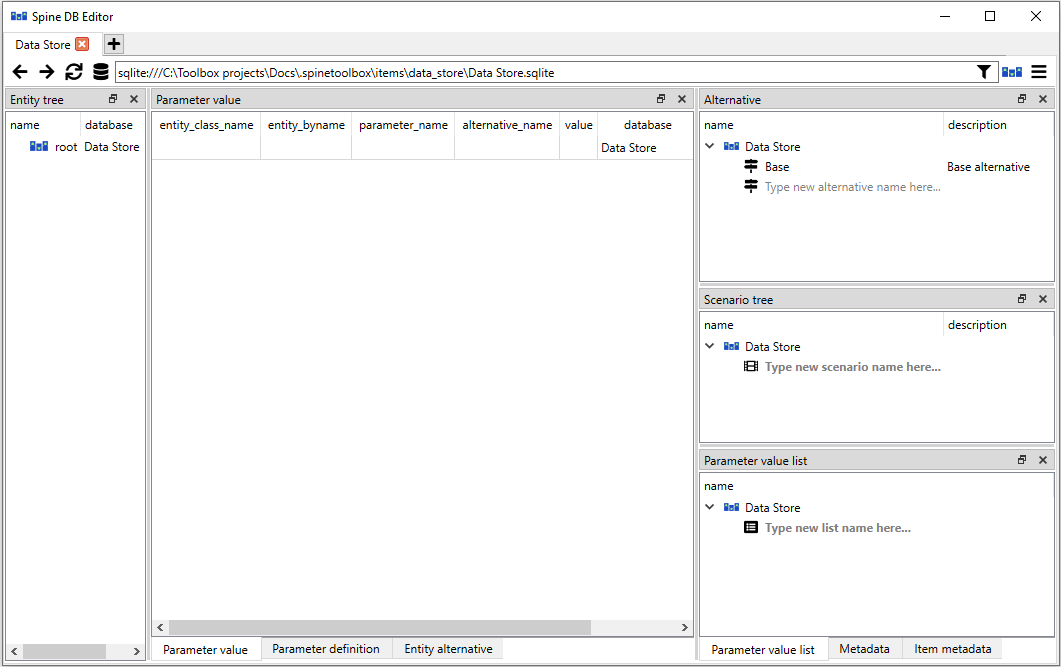
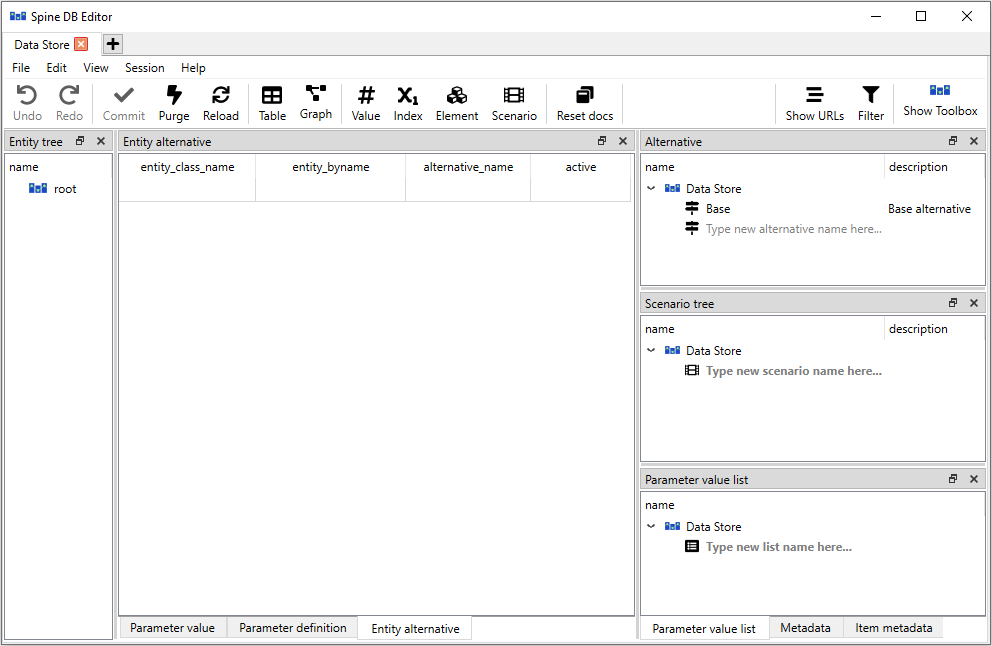
Update docs and changelog
Re #2774

Changed region(s): [[0.0, 0.0, 1.0, 1.0], [0.875, 0.3096, 1.0, 0.3406], [0.9688, 0.0, 1.0, 0.031]]

diff --git a/docs/source/spine_db_editor/getting_started.rst b/docs/source/spine_db_editor/getting_started.rst
@@ -31,9 +31,7 @@ Using a *Data Store* project item:
 Without a *Data Store*:
 
 1. From the main window select **File -> New DB Editor**.
-2. Open the menu by clicking on the hamburger menu icon (☰) or by pressing **ALT+F** or **ALT+E**.
-3. Select **Open...** to open an existing database, **New..** to create a new one or paste a database URL into
-   the URL bar.
+2. From the **Menubar** select **File -> Open...** to open an existing database or **New..** to create a new one.
 
 From the command line
 =====================
@@ -55,14 +53,8 @@ the data of the open databases in one editor.
 To open multiple SQLite databases in the same Spine database editor by file browser:
 
 1. Open a database Database editor using any of the ways explained before.
-2. Select **Add...** from the editor's hamburger menu (☰).
+2. Select **Add...** from the editor's **Menubar**.
 3. Browse to the directory of the SQLite file and open it.
-
-By using the database URL:
-
-1. Open a database Database editor using any of the ways explained before.
-2. In the URL bar, after the already open database's URL add a semicolon ``;``
-   and after that the URL of the other database to be opened in the same editor.
 
 Knowing the UI
 --------------
@@ -76,69 +68,53 @@ like this:
 The dock widgets can be scaled by dragging them from the sides and moved around by dragging them from their
 darker colored headers. Like with other widgets, Toolbox remembers the customizations and the editor will
 open in the same configuration when it is opened the next time. The dock configurations are URL specific.
-the configurations for the URL can be restored back to default from the hamburger menu **View->Docks...->Reset docks**.
+the configurations for the URL can be restored back to default from the **Menubar->View->Docks...->Reset docks**,
+or from the button in the **Toolbar** with the same name.
 
 Tab bar
 =======
 
-The uppermost UI element is the tab bar. One editor window can have multiple tabs. New tabs can be added by
-pressing the plus-sign (**+**) in the tab bar. In the newly created tab, databases can be opened once again
+The uppermost UI element is the **Tab bar**. One editor window can have multiple tabs. New tabs can be added by
+pressing the plus-sign (**+**) in the **Tab bar**. In the newly created tab, databases can be opened once again
 with the instructions given above. Tabs can be deleted from the editor by pressing the cross (**X**) inside
-a tab. The tabs can be dragged from the tab bar to create new editor windows. Tabs from different windows
+a tab. The tabs can be dragged from the **Tab bar** to create new editor windows. Tabs from different windows
 can also be dragged into others, fusing them into the same editor window.
 
-Navigation bar
+Menubar
 ==============
 
-Right below the tab bar there is the navigation bar. With the backwards and forwards arrows it is possible
-to go back to the database that was previously loaded in the specific tab. This is kind of analogous of web
-browsers and going back to the previous page. Next to the arrows there is the **reload** (|reload|) button.
-It can be used to reload the data of the database. Next up is the Data Store icon (|database|) which lists
-the Data Store items in the project and can be used to open any of them in the current tab. The URL bar
-contains the URL of the databases tha are currently open in the tab. As mentioned before, databases can
-be opened by inserting valid database URLs into this field and pressing enter. The URL bar also contains
-the filter (more about this later). After the URL bar there is the Spine-Toolbox logo which when clicked
-brings up the Spine-Toolbox main window. Finally there is the hamburger menu (☰) which holds many of the
-functionalities of the Spine Database Editor.
-
-Hamburger menu
-==============
-
-The hamburger menu (☰) can be located in the upper left corner of the Spine Database Editor. It is the place
-where options and other such things can be found.
+Right below the **Tab bar** there is the **Menubar**. The **Menubar** has five different sections: **File**, **Edit**,
+**View**, **Session**, and **Help**.
 
 File
 ~~~~
 
-The uppermost section in the menu is dedicated to actions related
-to databases. There you can create a new Spine db from **New...**, open an existing one from **Open...** or add
-another database to the current tab form **Add...** as explained before. There are also options **Import...**,
-**Export...** and **Export session...**. The importing works kind of like adding another database to the existing
-tab but instead of just opening the other database it brings all of the data from the other database and merges it
-into the current database. With export it is possible to export the current database into it's own ``.sqlite`` file.
-The export session works just like export but instead of exporting the whole database, it exports just the new
-modifications that have been made since the last commit.
+The leftmost section in the menu is dedicated to actions related
+to databases. There you can create a new Spine db from **New...**, open an existing one from **Open...** or
+**Open recent**, and finally add another database to the current tab with **Add...** as explained before.
+There are also options **Import...**, **Export...** and **Export session...**. The importing works kind of like adding
+another database to the existing tab but instead of just opening the other database it brings all of the data from the
+other database and merges it into the current database. With export it is possible to export the current database into
+it's own ``.sqlite`` file. The export session works just like export but instead of exporting the whole database, it
+exports just the new modifications that have been made since the last commit. The last menu item is **Settings...**,
+which opens up the settings. More information about the settings can be found in :ref:`DB editor settings`
 
 Edit
 ~~~~
 
-In the **Edit** section there lies the **Undo** and **Redo** -buttons. These can be used to undo and redo the
-actions that have been made in the editor (**CTR+Z** and **CTR+Y** also work). The **Copy as text** allows
-the user to copy items into the clipboard that can then be pasted elsewhere. The **Paste** option does
-exactly what it says, it pastes the data on the clipboard into the selected field(s). The **Purge...** button is
-quite useful when there is a need to get rid of a lot of data quickly. Clicking it will open a new window where
-options for the purging are given. Find out more about purging in the section :ref:`Removing data`.
-The **Vacuum** option tries to free up some memory from the claws of the database.
+In the **Edit** section  The **Copy as text** allows the user to copy items into the clipboard that can then be
+pasted elsewhere. The **Paste** option does exactly what it says, it pastes the data on the clipboard into the
+selected field(s). The **Vacuum** option tries to free up some memory from the claws of the database. More information
+about vacuumng here: :ref:`vacuum`.
 
 View
 ~~~~
 
-The different view modes are listed in the **View** -section. Also the **Docks...** button for managing the
-visibility of the UI elements is located here. When switching to the **Value**, **Index** and **Element** views
-something need to selected from the entity tree in order for the view to show anything meaningful. The Graph view
-will show an graphical representation of the entities whereas the table view shows the plain data in table format.
-By pressing the **Docks...** one can customize what UI elements are displayed. This way it is possible to for example
-have the graph and scenario pivot table views open at the same time.
+From **View**, one can toggle what UI elements are displayed. This way it is possible to for example
+have the graph and scenario pivot table views open at the same time. The selections made in the **View** get saved
+to the currently open view type and are also database specific. The **Reset docs** can be used to make a factory reset
+to the layout of the widgets.
+
 
 Session
 ~~~~~~~
@@ -148,33 +124,53 @@ dialog box, where a commit message can be written. The default commit message is
 practise to write descriptive and concise messages. The **Rollback** button reverts the database to the state
 it was in when it was committed the last time. This means that all modifications to the data that haven't been
 committed will be lost. It is also good to note that this action clears the undo/redo stack which means that the
-operation is irreversible. The **History** button allows one to view the commit history of the database.
+operation is irreversible. The **History** button allows one to view the commit history of the database. **Close**
+just shuts down the current session and closes the current tab in the editor.
 
-Other
-~~~~~
+Help
+~~~~
 
-In the bottom part of the hamburger menu there is a button to open the User Guide in a web browser, **Settings**
-button to open the Spine Database Editor settings and a **Close** button for closing the editor. More information
-about the settings can be found in :ref:`DB editor settings`.
+Contains a link to the index page of the Spine Database Editor documentation.
+
+Toolbar
+=======
+
+The **Toolbar** houses many useful features that come in handy when working with a database. Starting from the left, there
+are the **Undo** and **Redo** -buttons. These can be used to undo and redo the actions that have been made in the
+editor (**CTR+Z** and **CTR+Y** also work). **Commit** saves the changes made in the editor into the database. More
+information about committing can be found in here :ref:`committing_and_history`. The **Purge...** button is quite
+useful when there is a need to get rid of a lot of data quickly. Clicking it will open a new window where
+options for the purging are given. Find out more about purging in the section :ref:`Removing data`. **reload**
+(|reload|) button can be used to reload the data of the database.
+
+The following six buttons are used to switch between the different views in the editor. Short introductions to the
+different views can be found on the bottom of this page and more indepth explanations from here: :ref:`viewing data`.
+The last button on the left side is **Reset docs**. When pressed, the dock widgets get reset to their default positions
+in all views and Toolbox will forget the previous modifications. These modifications are database specific, so pressing
+this button will only reset the editor to factory state for the currently open database.
+
+The right side of the **Toolbar** houses three buttons. **Show URLs** opens up a popup window, which houses the names and
+URLs of the currently open databases. From there they can be copied, if one needs the URL for some purpose. Next button
+is the **Filter** (more about this later). After that there is the Spine-Toolbox logo which when clicked brings up the
+Spine-Toolbox main window.
 
 Filter
 ======
 
 The filter can be used to select which items are allowed to be shown in the editor. The filter is based on scenarios.
-By pressing the filter image in the right end of the URL bar, the filter selector widget opens up. There the desired
+By pressing the filter image in the right end of the **Toolbar**, the filter selector widget opens up. There the desired
 scenario can be selected. When a selection is made and the **Update filters** button is pressed, the changes will be
 applied to the editor. Now all entities, parameters etc. will be filtered out if they don't belong to the scenario
 specified in the filter.
 
 .. tip:: Note that after applying the filter, the URL gets updated with some additional information about the filters.
-         It is therefore possible to make changes to the filtering just by modifying the URL from the URL bar.
 
 Undo and redo
 =============
 
 Whenever changes are made to the data in the Spine Database Editor, the changes get stored into memory. This
 allows undoing and redoing the operations made in the editor. Buttons for these operations can be found in the
-hamburger menu and the usual shortcuts **Ctrl+Z** and **Ctrl+Y** work also. However if the changes are committed,
+**Toolbar** and the usual shortcuts **Ctrl+Z** and **Ctrl+Y** work also. However if the changes are committed,
 the memory for the changes gets cleared meaning that the changes before the commit can't be undone anymore.
 
 Views and trees
@@ -195,8 +191,8 @@ Spine Database Editor has the following main UI components:
 - *Metadata*: presents metadata defined in the databases.
 - *Item metadata*: shows metadata associated with the currently selected entities or parameter values.
 
-.. tip:: You can customize the UI from the **View** section in the hamburger ☰ menu. There the **Docks...**
-         menu can be used to enable and disable the different UI components listed above.
+.. tip:: You can customize the UI from the **View** section in the **Menubar** by enabling and disabling
+         the different UI components listed above.
 
 Items from the trees can be selected by clicking them with the left mouse button and the views will react to
 the changes. By default, multiple items can be selected at the same time across the trees by holding down **Ctrl**

diff --git a/docs/source/spine_db_editor/committing_and_history.rst b/docs/source/spine_db_editor/committing_and_history.rst
@@ -20,7 +20,7 @@ An asterisk (*) in a tab of Spine Database Editor indicates that the session has
 If the database is opened from a Data Store, the corresponding project item will also have a notification in its
 upper right corner indicating that the database has uncommitted changes.
 
-To commit your changes, select **Session -> Commit** from the hamburger menu or press **Ctrl+Enter** while the
+To commit your changes, select **Session -> Commit** from the **Toolbar** or press **Ctrl+Enter** while the
 Spine Database Editor -window is active to open the commit dialog:
 
 .. image:: img/commit_dialog.png
@@ -45,11 +45,11 @@ will be automatically committed or not depending on the selection you made previ
 Rollback
 --------
 
-To undo *all* changes since the last commit, select **Session -> Rollback** from the hamburger menu or press
+To undo *all* changes since the last commit, select **Session -> Rollback** from the **Menubar** or press
 **Ctrl+Backspace** while the Spine Database Editor -window is active. A dialog confirming the rollback action
 will open. From there, select **Rollback** to proceed.
 
-.. tip:: To undo/redo individual changes, use the **Edit -> Undo** and **Edit -> Redo** actions from the hamburger menu.
+.. tip:: To undo/redo individual changes, use the **Edit -> Undo** and **Edit -> Redo** actions from the **Toolbar**.
 
 .. note:: After rolling back to the last commit, the changes made in the session will no longer be available
           through undo/redo.
@@ -57,7 +57,7 @@ will open. From there, select **Rollback** to proceed.
 History
 -------
 
-To examine the commit history of the database, select **Session -> History...** from the hamburger menu.
+To examine the commit history of the database, select **Session -> History...** from the **Menubar**.
 The **commit viewer** will pop up:
 
 .. image:: img/commit_viewer.png

diff --git a/docs/source/spine_db_editor/adding_data.rst b/docs/source/spine_db_editor/adding_data.rst
@@ -85,10 +85,10 @@ To narrow down the list, instead of opening the dialog from the root item, open 
 in the **Entity Tree**. This way the class will be preselected from the list and the list will overall only contain
 other classes that are relevant to the selected class.
 
-Enter the names of the entities under **entity name**. The column **alternative** is optional. Filling it in
-will automatically set the entity active in the selected alternative. Finally, select the databases where you
-want to add the entities under **databases**. When you're ready, press **Ok**. Rows can once again be deleted
-with the **Remove selected rows** -button.
+Enter the names of the entities under **entity name**. The column **alternative** is optional. It defaults to the
+first alternative in the **Alternative** -dock widget (normally *Base* will automatically set the entity active in the
+selected alternative. Finally, select the databases where you want to add the entities under **databases**. When
+you're ready, press **Ok**. Rows can once again be deleted with the **Remove selected rows** -button.
 
 With N-D entity classes, the elements need to be specified. After defining the elements the entity's name can be
 modified:
@@ -118,7 +118,7 @@ To add an entity to a specific 0-D entity class, bring the class to **Pivot View
 will be added under the class. Note that is only possible to add 0-D entities this way even if you have selected
 an N-D class from the **Entity Tree**.
 
-To enter a new entity to an N-D class, select the **Element** -view from the hamburger menu. This view contains
+To enter a new entity to an N-D class, select the **Element** -view from the **Toolbar**. This view contains
 all of the possible combinations of elements in the selected class. The entities can be added by checking the
 boxes and removed by unchecking them.
 

diff --git a/docs/source/spine_db_editor/vacuum.rst b/docs/source/spine_db_editor/vacuum.rst
@@ -8,11 +8,11 @@ Vacuum
 ======
 
 Vacuuming is available for Spine Databases in the SQLite format. Basically it tries to free up some unnecessary
-memory from the ``.sqlite`` -file. If you have very large databases, it might be beneficial to vacuum it once in a while.
-More detailed explanation on what vacuuming does to the SQLite database can be found
+memory from the ``.sqlite`` -file. If you have very large databases, it might be beneficial to vacuum it once in
+a while. More detailed explanation on what vacuuming does to the SQLite database can be found
 `here <https://www.sqlite.org/lang_vacuum.html>`_.
 
 To vacuum a database, either press the |broom| Vacuum -button from the Data Store **Properties** -panel, or
-straight from the Spine Database Editors hamburger menu **Edit->Vacuum**.
+straight from the Spine Database Editors from **Edit->Vacuum** in the **Menubar**.
 
 After the vacuum is finished, a message informing the amount of bytes freed from the database is shown.

diff --git a/docs/source/spine_db_editor/importing_and_exporting_data.rst b/docs/source/spine_db_editor/importing_and_exporting_data.rst
@@ -17,7 +17,7 @@ described in :ref:`format_specifications`.
 Importing
 =========
 
-To import a file, select **File --> Import** from the hamburger menu.
+To import a file, select **Menubar -> File -> Import**.
 The *Import file* dialog will pop up.
 Select the file type (SQLite, JSON, or Excel), enter the path of the file to import, and accept the dialog.
 
@@ -29,7 +29,7 @@ Exporting
 Mass export
 ~~~~~~~~~~~
 
-To export items in mass, select **File --> Export** from the hamburger menu.
+To export items in mass, select **Menubar -> File -> Export**.
 The *Export items* dialog will pop up:
 
 .. image:: img/mass_export_items_dialog.png
@@ -55,7 +55,7 @@ Session export
 ~~~~~~~~~~~~~~
 
 To export only uncommitted changes made in the current session, select **File --> Export session** from
-the hamburger menu.
+the **Menubar**.
 
 The *Export file* dialog will pop up.
 Select the file type (SQLite, JSON, or Excel), enter the path of the file to export, and accept the dialog.

diff --git a/docs/source/spine_db_editor/viewing_data.rst b/docs/source/spine_db_editor/viewing_data.rst
@@ -1,4 +1,6 @@
 
+.. _viewing data:
+
 Viewing data
 ------------
 
@@ -65,7 +67,7 @@ Unavailable options are still visible but they are greyed out:
 
 .. tip:: **Entity Tree** also supports **Sticky selection**, which allows one to
    extend the selection by clicking on items *without pressing* **Ctrl**. To enable **Sticky selection**, select
-   **Settings** from the hamburger menu, and check the corresponding box.
+   **Settings** from **Menubar -> File**, and check the corresponding box.
 
 Using the **Graph View**
 ~~~~~~~~~~~~~~~~~~~~~~~~
@@ -247,7 +249,7 @@ Selecting the input type
   in the table body.
 
 
-You can select the input type from the **Pivot** section in the hamburger menu.
+You can select the input type from the **Toolbar**.
 
 .. note:: In **Pivot View**, header blocks in the top-left area indicate what is shown in each horizontal
    and vertical header. For example, in **Value** input type, by default, the horizontal header

diff --git a/docs/source/spine_db_editor/managing_data.rst b/docs/source/spine_db_editor/managing_data.rst
@@ -34,7 +34,7 @@ When you're happy with the members, press **OK**.
 Managing N-D entities
 =====================
 
-Right click the root item, or an N-D entity item in **Entity Tree** and from the context menu select
+Right click the root item, or an N-D entity class item in **Entity Tree** and from the context menu select
 **Manage elements**. The *Manage elements* dialog will pop up:
 
 .. image:: img/manage_entities_dialog.png

diff --git a/docs/source/spine_db_editor/removing_data.rst b/docs/source/spine_db_editor/removing_data.rst
@@ -15,7 +15,7 @@ This section describes the available tools to remove data.
 Purging items
 =============
 
-To remove all items of specific types, select **Edit -> Purge...** (|purge|) from the hamburger menu.
+To remove all items of specific types, select **Purge** (|purge|) from the **Toolbar**.
 The *Purge items* dialog will pop up:
 
 .. image:: img/purge_dialog.png

diff --git a/CHANGELOG.md b/CHANGELOG.md
@@ -13,6 +13,8 @@ The format is based on [Keep a Changelog](http://keepachangelog.com/en/1.0.0/)
 ### Changed
 
 - Python 3.12 and later is now supported.
+- Database editor's hamburger menu has been converted into a menubar beneath the tab bar. The URL toolbar has also
+  been replaced with a toolbar that houses different buttons.
 
 ### Deprecated
 
